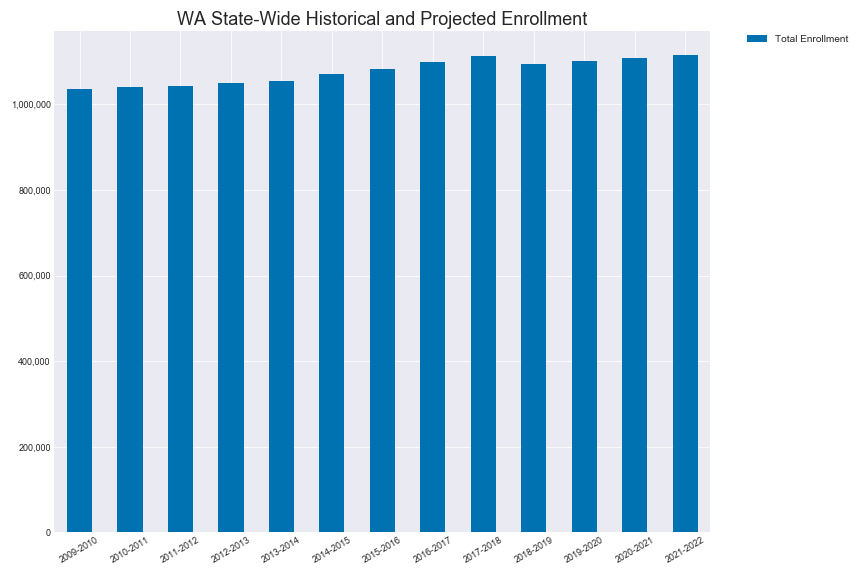
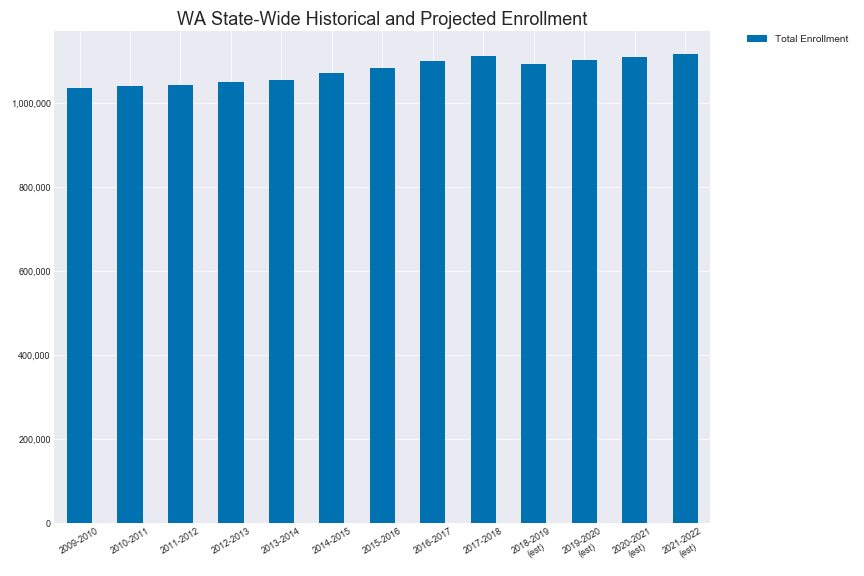
Added the enrollment chart to the 4 year budget page

diff --git a/4_yr_f195_budgets.md b/4_yr_f195_budgets.md
@@ -15,6 +15,7 @@ Tables:
 Charts:
 - State-Wide Historical and Projected Budget Amounts for the General Fund
 - State-Wide Historical and Projected Budget Amounts Ave Per Student for the General Fund
+- State-Wide Historical and Projected Enrollment
 - Number of Districts with Projected Positive and Negative Balances by Fund
 
 ___
@@ -34,6 +35,12 @@ ___
 State-Wide Historical and Projected Budget Amounts Ave Per Student for the General Fund
 
 ![State Wide Revenue and Expense Averages General Fund](pagesManual/4YearF195ProjectedBudgets/WA State-Wide Budget Amounts Ave Per Student General Fund.png "State Wide Revenue and Expense Averages General Fund")
+
+___
+
+State-Wide Historical and Projected Enrollment
+
+![State Wide Enrollment](pagesManual/4YearF195ProjectedBudgets/WA State-Wide Historical and Projected Enrollment .png "State Wide Enrollment")
 
 ___
 
